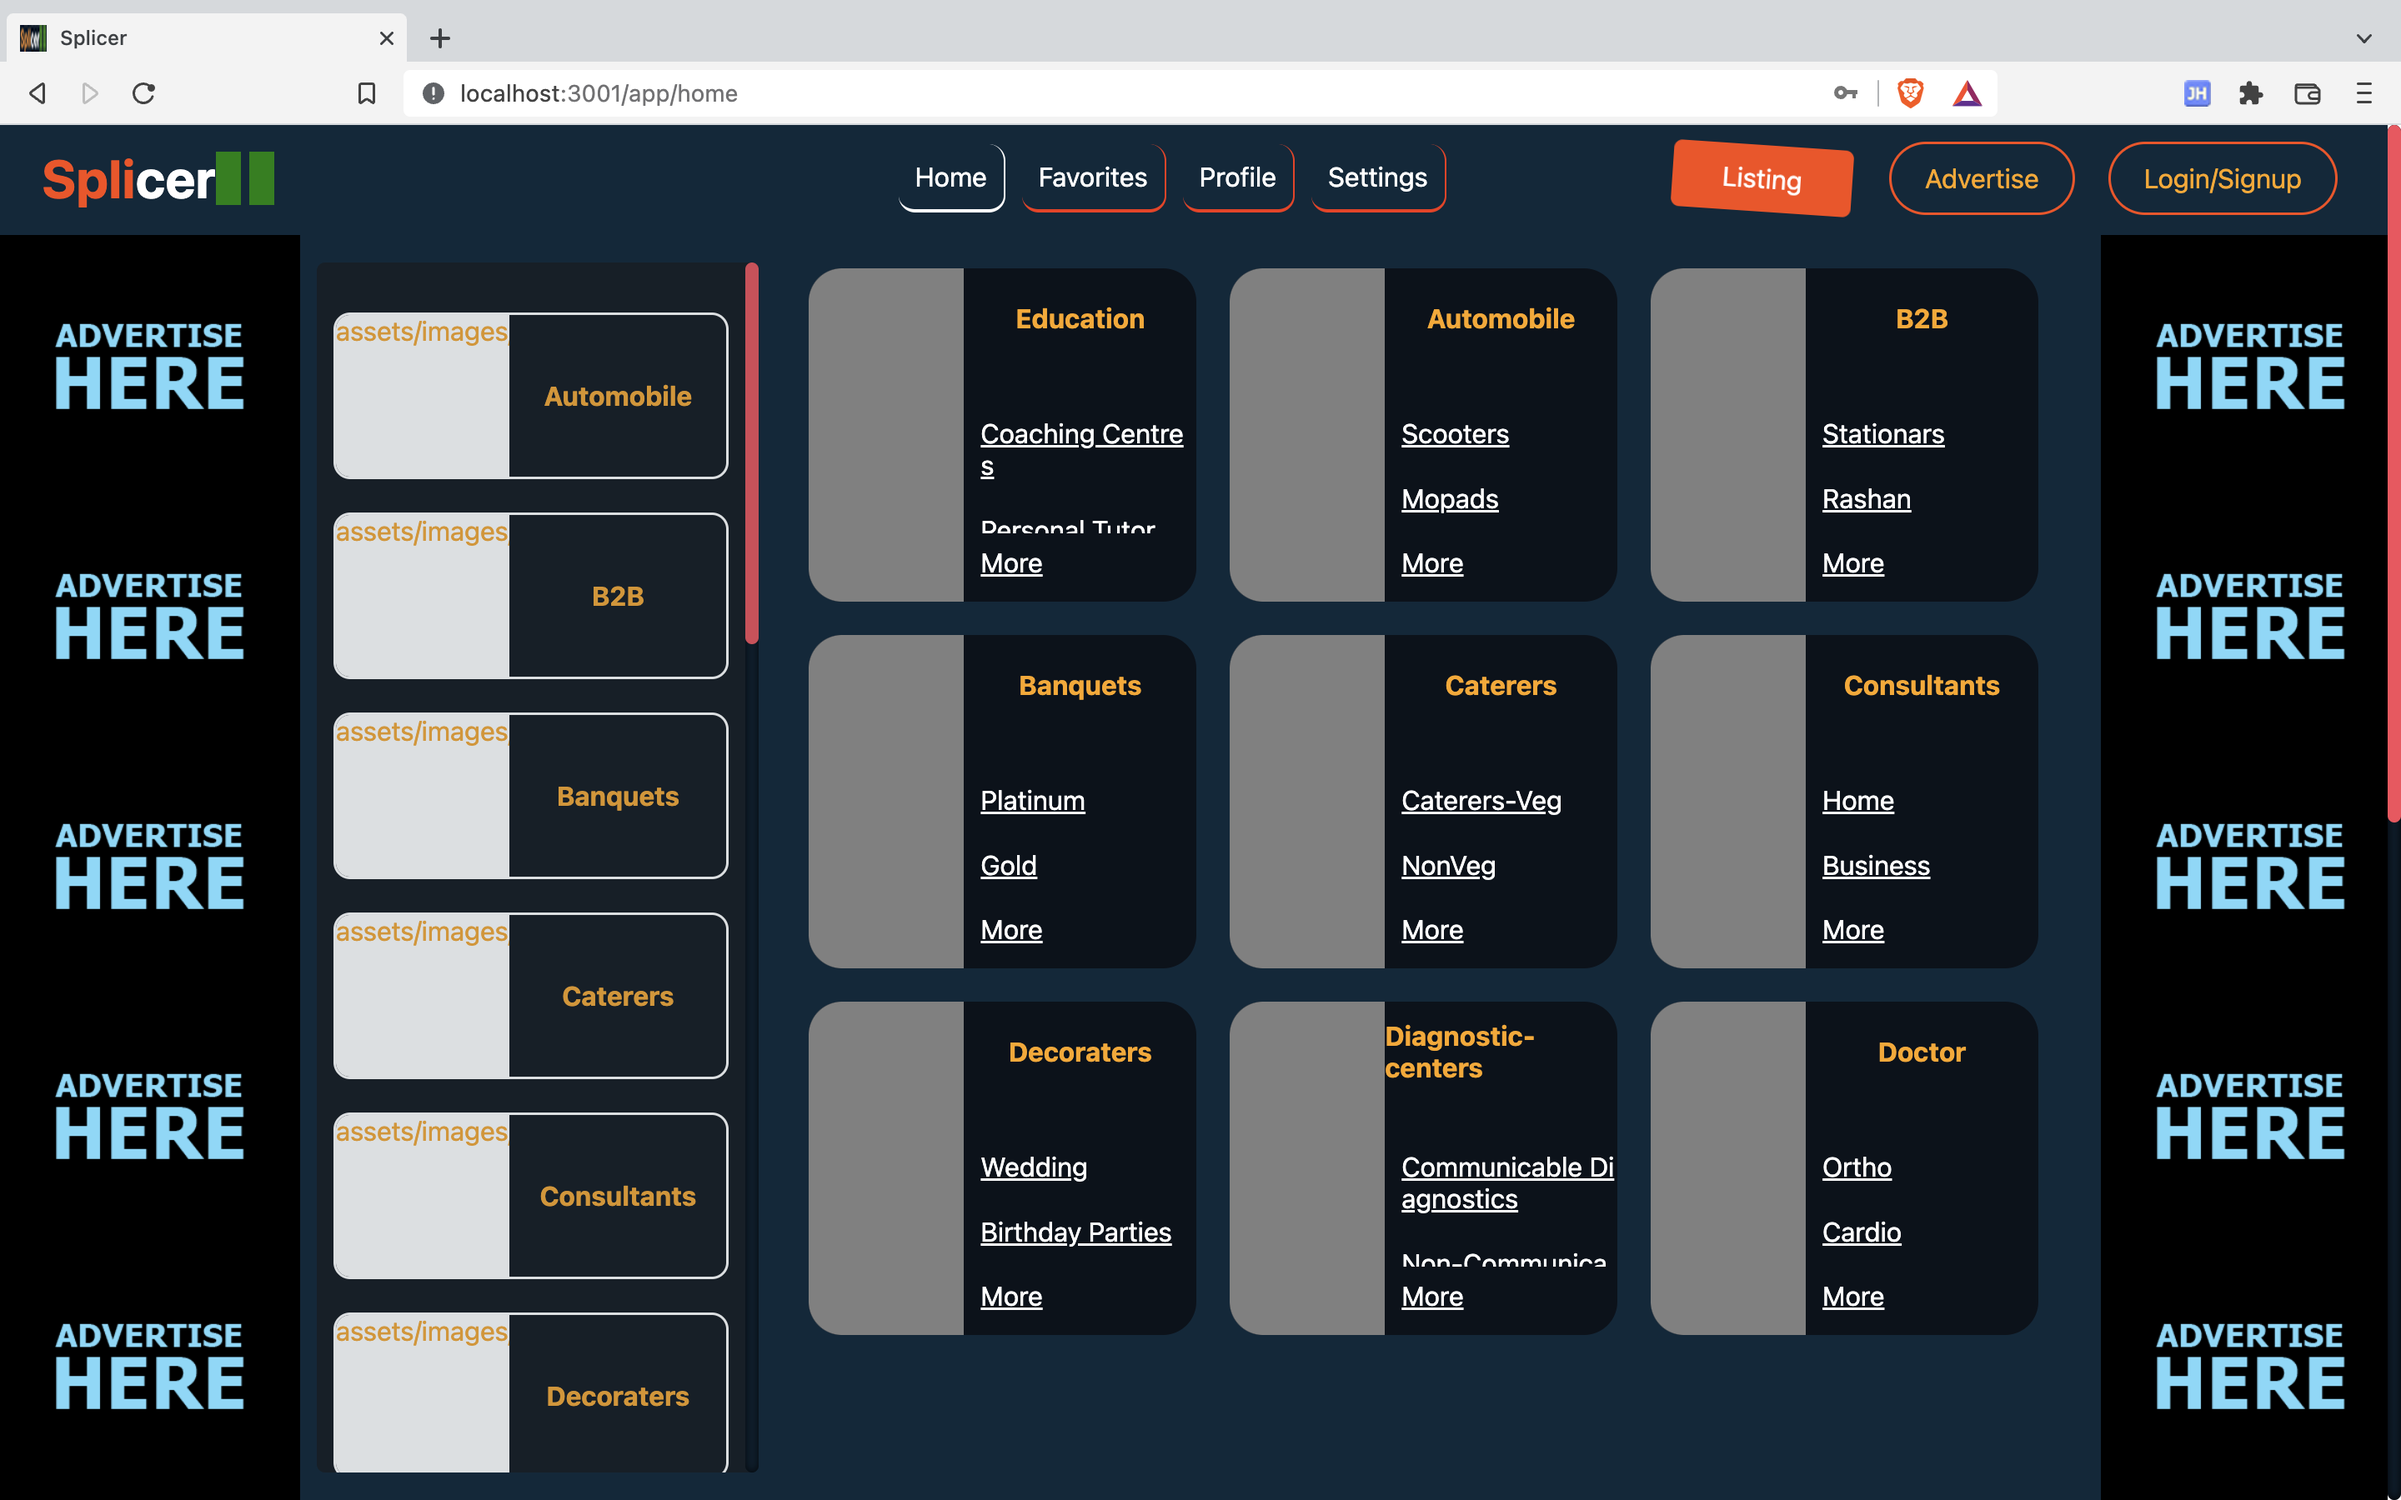
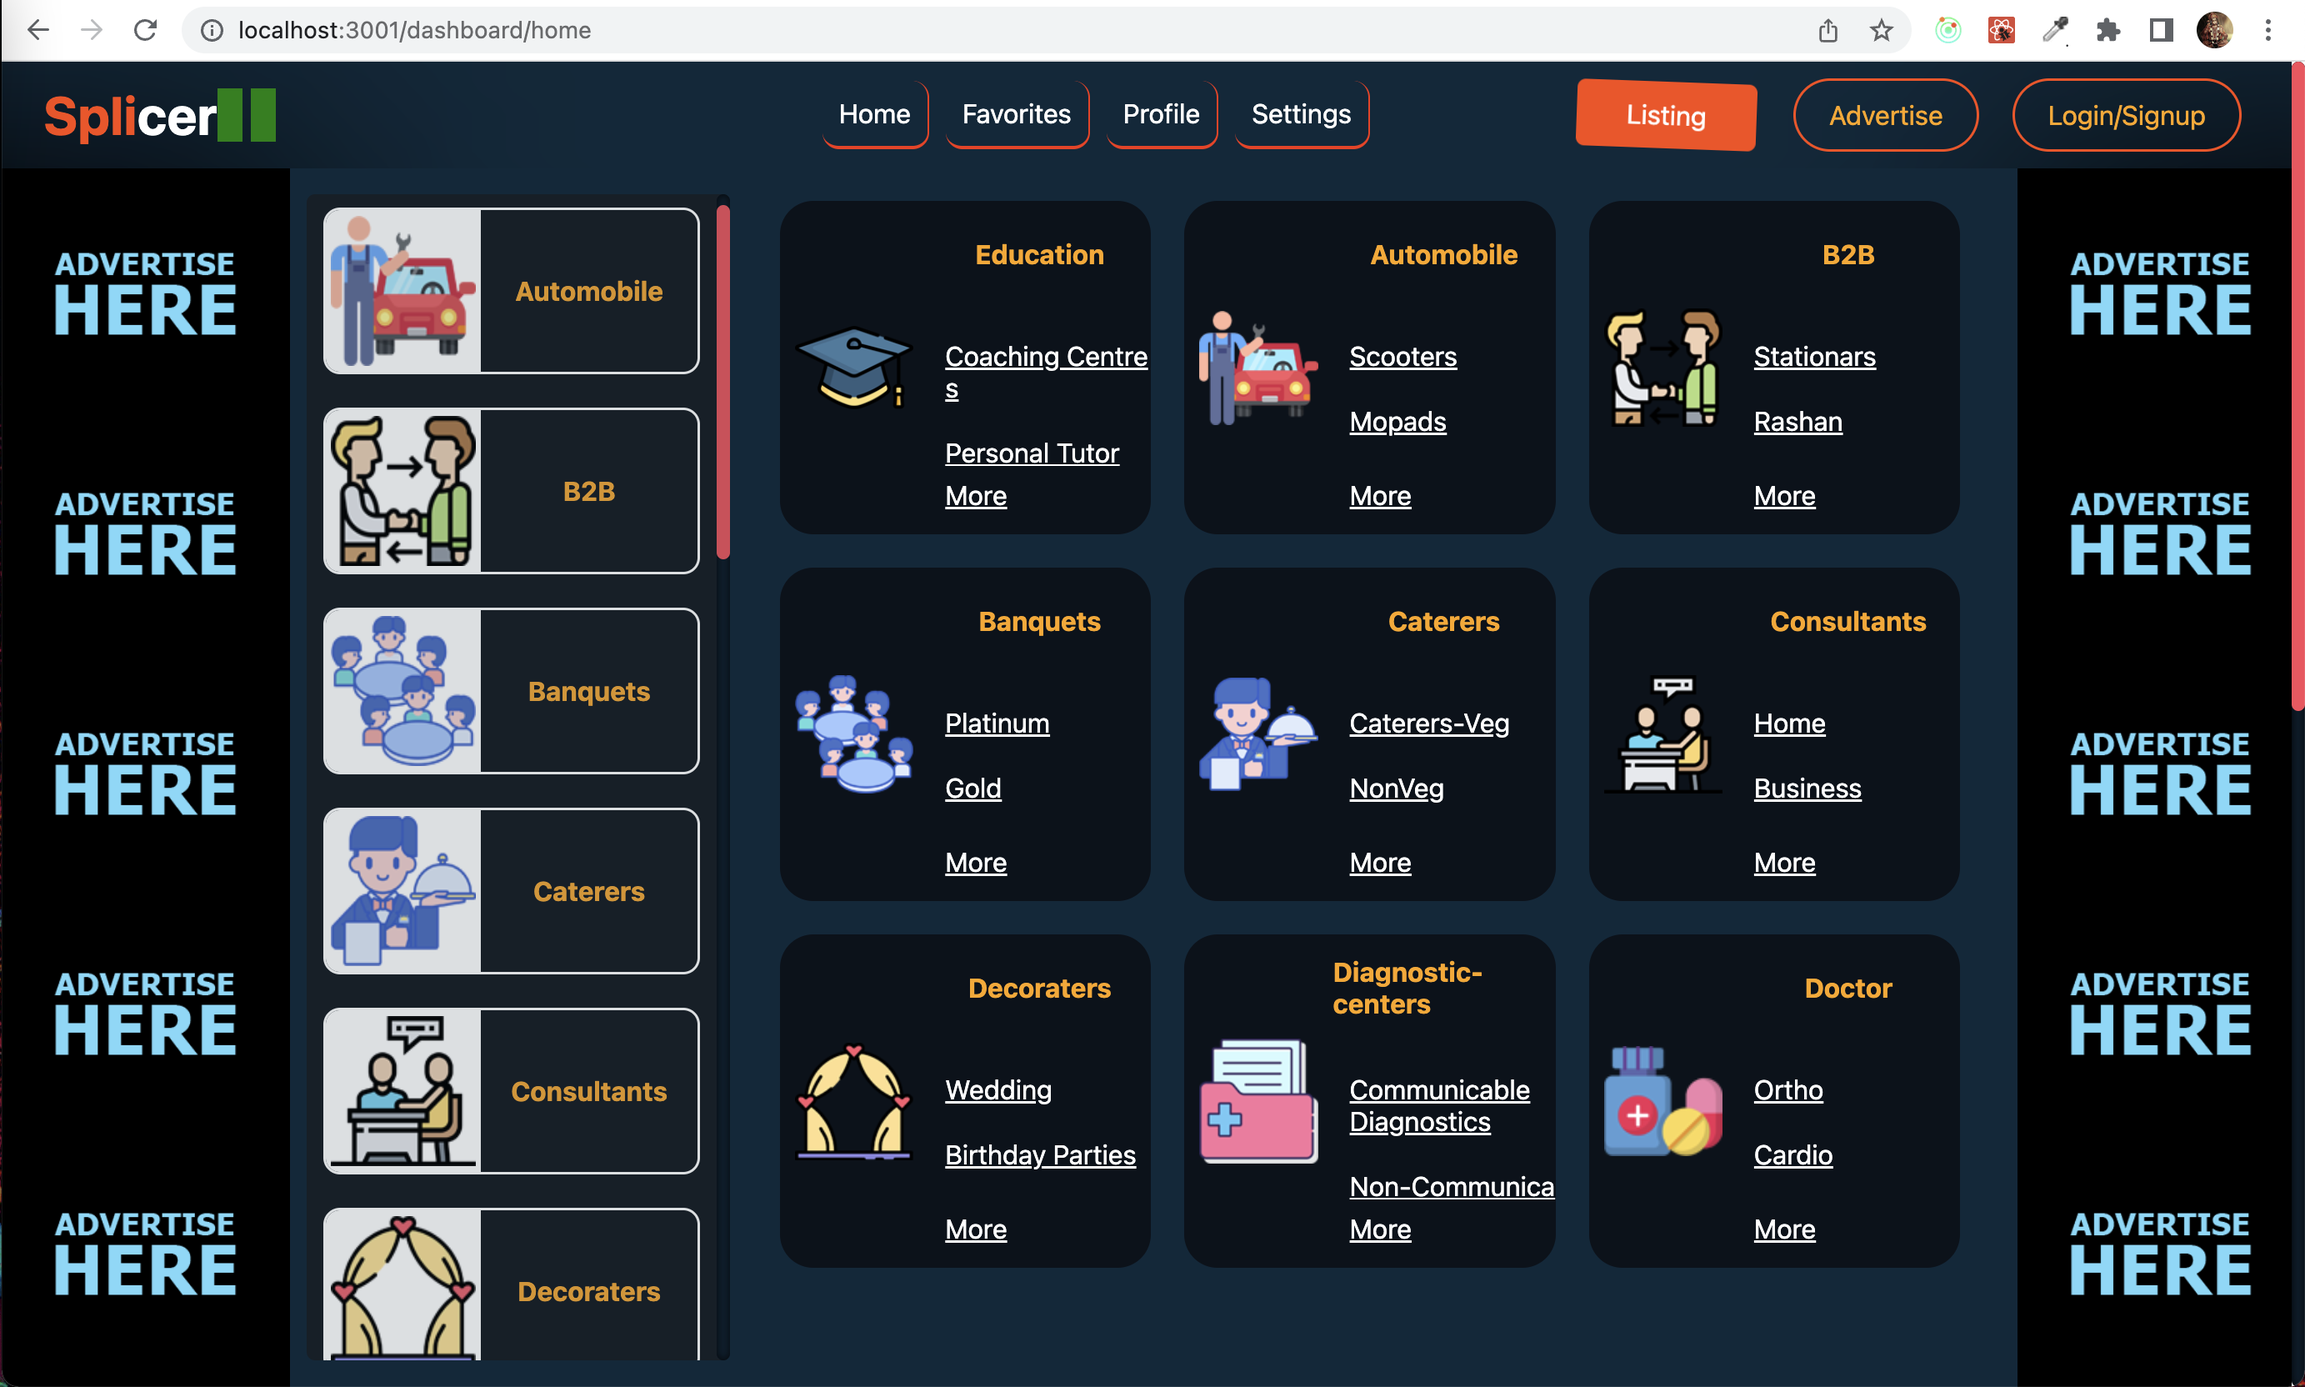
added images

diff --git a/splicer/src/components/SubCategoryCard.component.js b/splicer/src/components/SubCategoryCard.component.js
@@ -11,7 +11,9 @@ function SubCategoryCard(props) {
   const { children } = props;
   return (
     <Card data-aos="fade-up">
-      <ImageDiv></ImageDiv>
+      <ImageDiv>
+        <Img src={children[0].sub_category_image}></Img>
+      </ImageDiv>
       <List>
         <CategoryNameDiv>
           <h4>{children[0].parent_name}</h4>
@@ -55,10 +57,14 @@ const Card = styled.div`
 const ImageDiv = styled.div`
   flex: 2;
   height: 100%;
-  border-style: none;
+
   border-radius: 20px 0 0 20px;
-  background-color: grey;
-  border-style: none;
+  display: flex;
+  align-items: center;
+  justify-content: center;
+`;
+const Img = styled.img`
+  width: 80%;
 `;
 
 const List = styled.div`
@@ -91,7 +97,6 @@ const CategoryNameDiv = styled.div`
   flex: 2;
   width: 100%;
   border-radius: 0 20px 0 0;
-  margin-bottom: 10px;
 `;
 const MoreDiv = styled(CategoryNameDiv)`
   justify-content: start;

diff --git a/splicer/src/components/Categories.component.js b/splicer/src/components/Categories.component.js
@@ -18,7 +18,7 @@ export default function Categories() {
         return (
           <CategoryCard key={element.id}>
             <ImageDiv>
-              <p>{element.category_image}</p>
+              <Img src={element.category_image} alt="" />
             </ImageDiv>
             <NameDiv>{<h4>{element.category_name}</h4>}</NameDiv>
           </CategoryCard>
@@ -64,12 +64,19 @@ const CategoryCard = styled.div`
 `;
 
 const ImageDiv = styled.div`
+  display: flex;
+  justify-content: center;
+  align-items: center;
   height: 100%;
   width: 50px;
   background-color: white;
   flex: 1;
   overflow-x: hidden;
   color: orange;
+`;
+const Img = styled.img`
+  height: 93%;
+  width: 93%;
 `;
 const NameDiv = styled.div`
   box-sizing: border-box;
